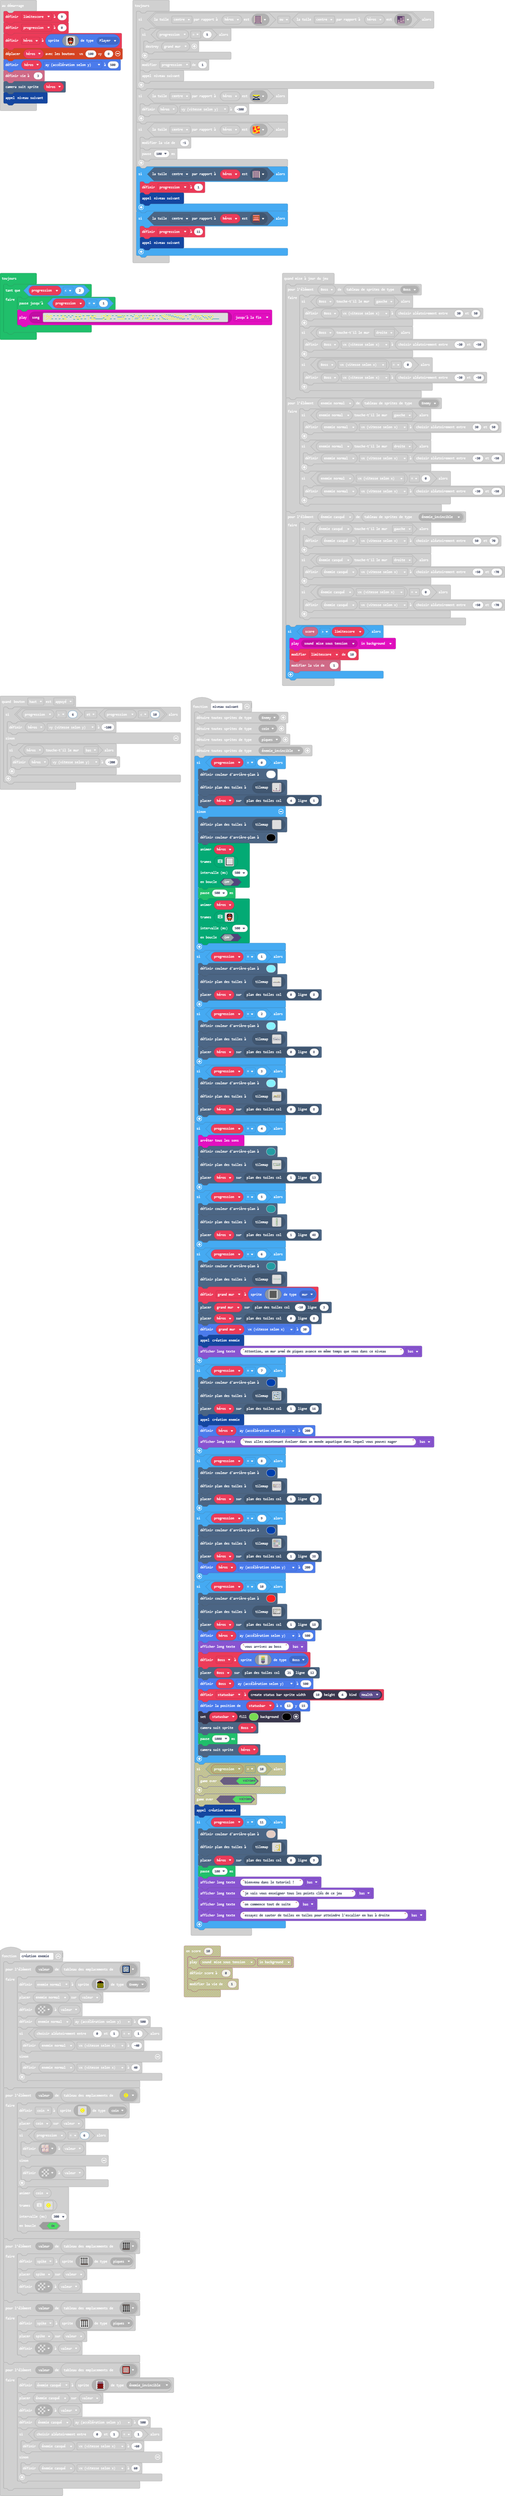
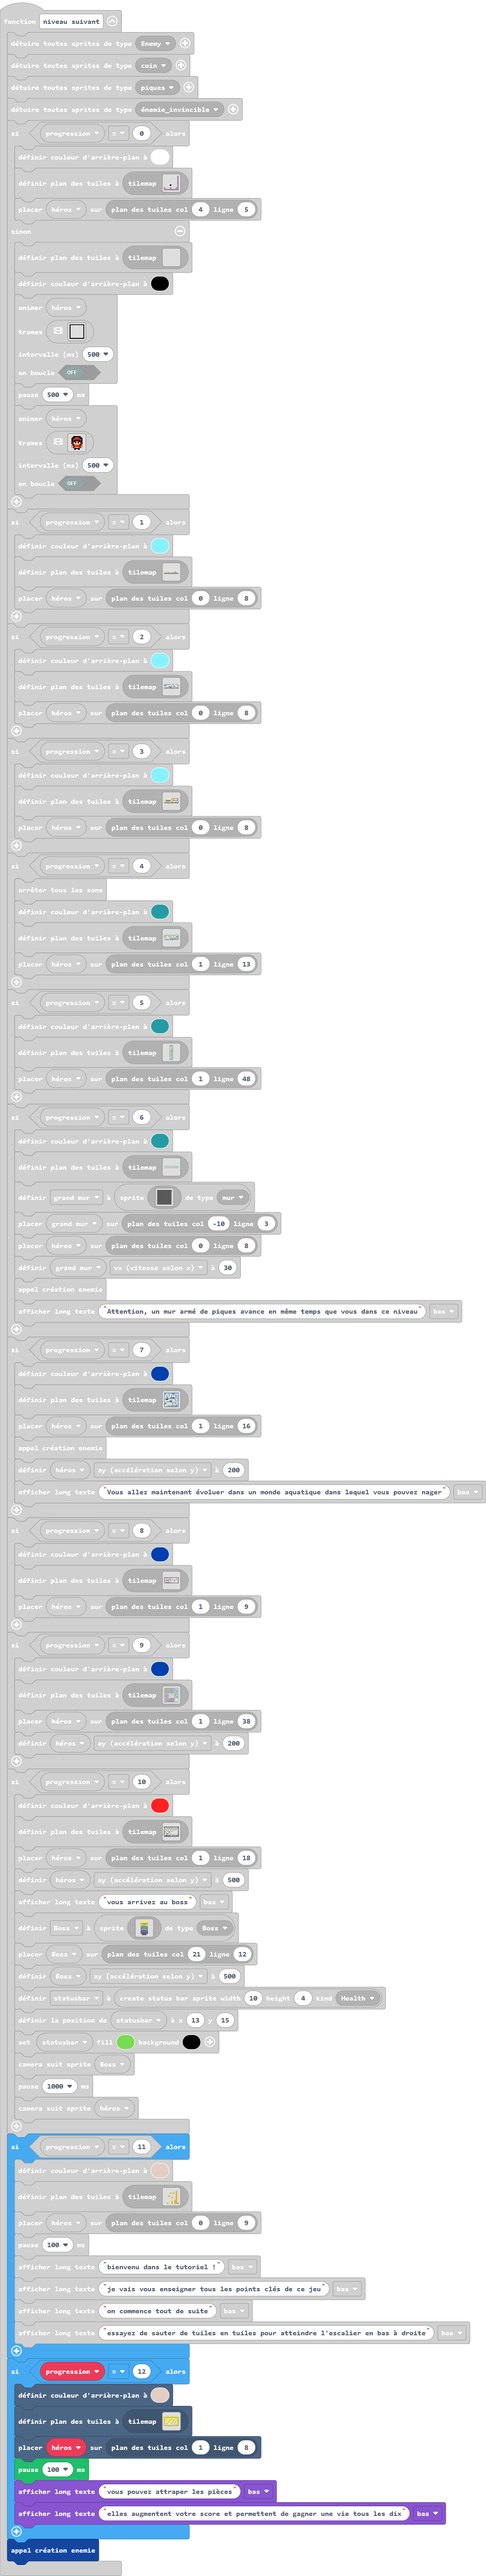
Mise à jour main.blocks, main.ts, tilemap.g.jres, tilemap.g.ts

diff --git a/tilemap.g.ts b/tilemap.g.ts
@@ -35,25 +35,6 @@ namespace myTiles {
 
     helpers._registerFactory("tilemap", function(name: string) {
         switch(helpers.stringTrim(name)) {
-            case "niveau14":
-            case "niveau14":return tiles.createTilemap(hex`1000100000000000000000000000000000000000000000000000000000000000000000000000000000000000000000000000000000000000000000000000000000000000000000000000000000000000000000000000000000000000000000000000000000000000000000000000000000000000000000000000000000000000000000000000000000000000000000000000000000000000000000000000000000000000000000000000000000000000000000000000000000000000000000000000000000000000000000000000000000000000000000000000000000000000000000000000000000000000000000000000000000000000000000000000000000000000`, img`
-. . . . . . . . . . . . . . . . 
-. . . . . . . . . . . . . . . . 
-. . . . . . . . . . . . . . . . 
-. . . . . . . . . . . . . . . . 
-. . . . . . . . . . . . . . . . 
-. . . . . . . . . . . . . . . . 
-. . . . . . . . . . . . . . . . 
-. . . . . . . . . . . . . . . . 
-. . . . . . . . . . . . . . . . 
-. . . . . . . . . . . . . . . . 
-. . . . . . . . . . . . . . . . 
-. . . . . . . . . . . . . . . . 
-. . . . . . . . . . . . . . . . 
-. . . . . . . . . . . . . . . . 
-. . . . . . . . . . . . . . . . 
-. . . . . . . . . . . . . . . . 
-`, [myTiles.transparency16], TileScale.Sixteen);
             case "niveau15":
             case "niveau15":return tiles.createTilemap(hex`1000100000000000000000000000000000000000000000000000000000000000000000000000000000000000000000000000000000000000000000000000000000000000000000000000000000000000000000000000000000000000000000000000000000000000000000000000000000000000000000000000000000000000000000000000000000000000000000000000000000000000000000000000000000000000000000000000000000000000000000000000000000000000000000000000000000000000000000000000000000000000000000000000000000000000000000000000000000000000000000000000000000000000000000000000000000000000`, img`
 . . . . . . . . . . . . . . . . 
@@ -837,8 +818,14 @@ namespace myTiles {
 . . . . . . . . . . . . . . . . 
 . . . . . . . . . . . . . . . . 
 `, [myTiles.transparency16], TileScale.Sixteen);
-            case "niveau13":
[1 lines of base64/hex data omitted]
+            case "jur":
+            case "niveau14":return tiles.createTilemap(hex`1000100000000000000000000000000000000000000000000000000000000000000000000000000000000000000000000000000000000000000000000000000000000000000000000000000000000000000000000000000000000000000000000000000000000000000000000000000000000000000000000000000000000000000000000000000000000000000000000000000000000000000000000000000000000000000000000000000000000000000000000000000000000000000000000000000000000000000000000000000000000000000000000000000000000000000000000000000000000000000000000000000000000000000000000000000000000000`, img`
+. . . . . . . . . . . . . . . . 
+. . . . . . . . . . . . . . . . 
+. . . . . . . . . . . . . . . . 
+. . . . . . . . . . . . . . . . 
+. . . . . . . . . . . . . . . . 
+. . . . . . . . . . . . . . . . 
 . . . . . . . . . . . . . . . . 
 . . . . . . . . . . . . . . . . 
 . . . . . . . . . . . . . . . . 
@@ -850,6 +837,19 @@ namespace myTiles {
 . . . . . . . . . . . . . . . . 
 . . . . . . . . . . . . . . . . 
 `, [myTiles.transparency16], TileScale.Sixteen);
+            case "tuto2":
[1 lines of base64/hex data omitted]
+2 2 2 2 2 2 2 2 2 2 2 2 2 2 2 2 
+2 . . . . . . . . . . . . . . 2 
+2 . . . . . . . 2 . . . . 2 . 2 
+2 . 2 . . . 2 . . . 2 . . . . 2 
+2 . . . . . . . . . . . . . 2 2 
+2 . . . . 2 . . . 2 . . 2 . . 2 
+2 . . . . . . . . . . . . . . 2 
+2 . . 2 . . . . 2 . . 2 . . . 2 
+2 . . . . . . . . . . . . 2 . 2 
+2 2 2 2 2 2 2 2 2 2 2 2 2 2 2 2 
+`, [myTiles.transparency16,myTiles.tile6,myTiles.tile15], TileScale.Sixteen);
         }
         return null;
     })

diff --git a/main.ts b/main.ts
@@ -864,6 +864,14 @@ function niveau_suivant () {
         game.showLongText("on commence tout de suite", DialogLayout.Bottom)
         game.showLongText("essayez de sauter de tuiles en tuiles pour atteindre l'escalier en bas à droite", DialogLayout.Bottom)
     }
+    if (progression == 12) {
+        scene.setBackgroundColor(13)
+        tiles.setCurrentTilemap(tilemap`tuto2`)
+        tiles.placeOnTile(héros, tiles.getTileLocation(1, 8))
+        pause(100)
+        game.showLongText("vous pouvez attraper les pièces", DialogLayout.Bottom)
+        game.showLongText("elles augmentent votre score et permettent de gagner une vie tous les dix", DialogLayout.Bottom)
+    }
     création_enemie()
 }
 sprites.onOverlap(SpriteKind.Player, SpriteKind.Enemy, function (sprite, otherSprite) {
